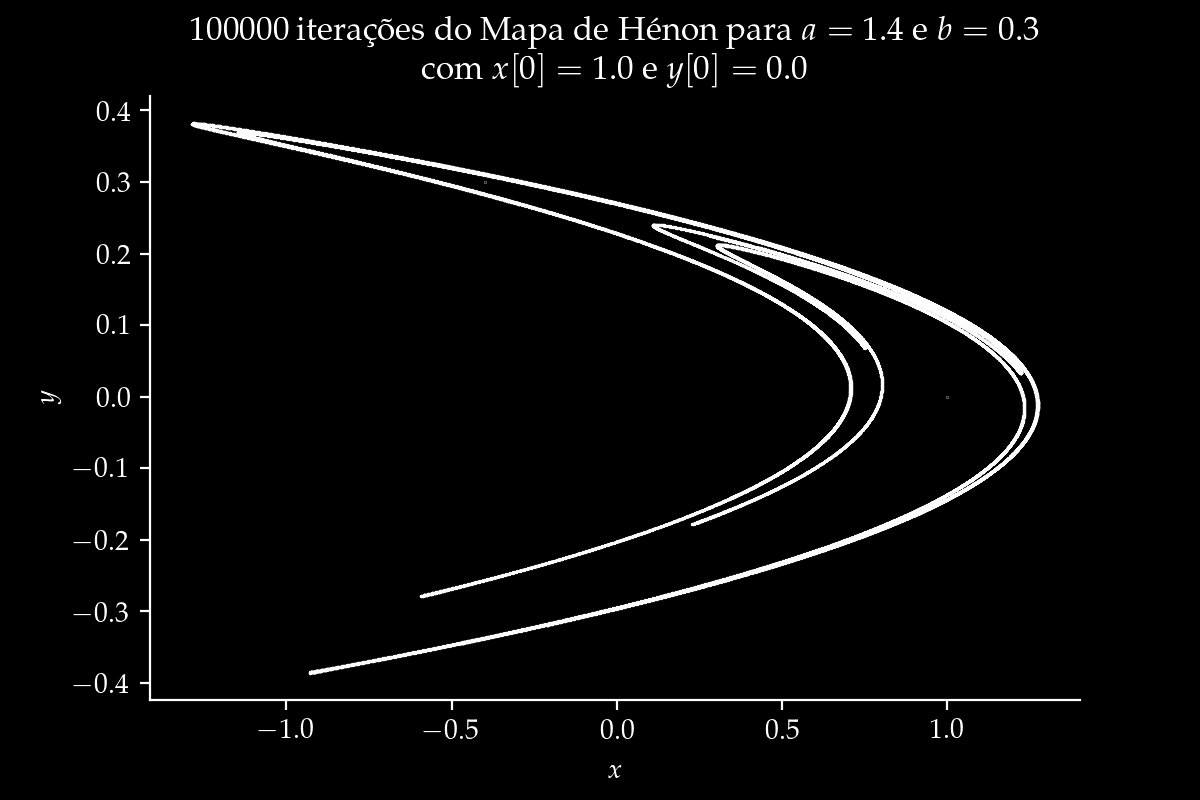
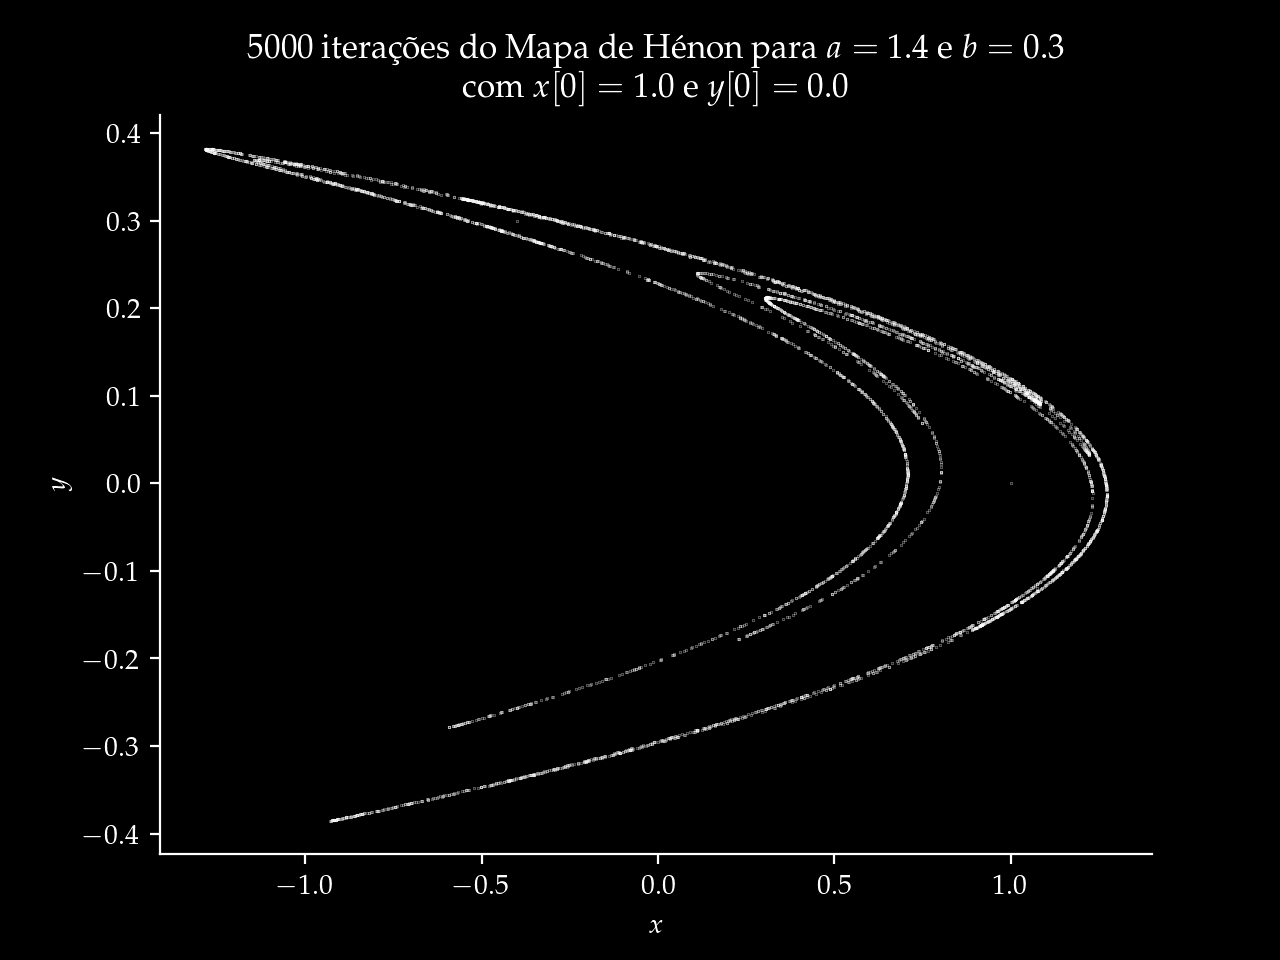
fiz um script para gerar os graficos das series caoticas

diff --git a/pibic2020/visualization/view_chaos.py b/pibic2020/visualization/view_chaos.py
@@ -1,0 +1,307 @@
+# bibliotecas gerais
+import numpy as np
+
+# bibliotecas dos graficos
+import matplotlib.pyplot as plt
+import seaborn as sns
+
+# agora, melhoramos a qualidade de saida e de visualizacao da imagem 
+# alem de mudar a fonte padrao para uma do latex
+sns.set_style("ticks")
+plt.rcParams['savefig.dpi'] = 200
+plt.rcParams["figure.dpi"] = 150
+plt.rcParams.update({
+    "text.usetex": True,
+    "font.family": "serif",
+    "font.serif": ["Palatino"],
+})
+plt.style.use("dark_background")
+
+
+# bibliotecas dos sistemas caoticos
+from pibic2020.data import henon
+from pibic2020.data import logistic
+from pibic2020.data import lorenz
+from pibic2020.data import mackeyglass
+
+print("Escolha o sistema para gerar os gráficos")
+sis = input("1: Mapa de Hénon, 2: Mapa Logístico, 3: Sistema de Lorenz, 4: Equações de Mackey-Glass")
+
+# --------------- HENON --------------- #
+if (int(sis) == 1):
+    a = 1.4
+    b = 0.3
+    x_inicial = 1.0
+    y_inicial = 0.0
+    n_inicial = 0
+    estado_inicial = np.array([x_inicial, y_inicial, n_inicial])
+
+    mapa_henon = henon.MapaHenon(estado_inicial=estado_inicial, a=a, b=b)
+    n_iteracoes = 5000
+    vetor_estados = mapa_henon.simular(n_iteracoes)
+    x = vetor_estados[:, 0]
+    y = vetor_estados[:, 1]
+    n = vetor_estados[:, 2]
+
+    fig, ax = plt.subplots()
+    ax.scatter(x, y, color='White', s = 0.05, marker=".")
+    ax.set_title(str(n_iteracoes) + " iterações do Mapa de Hénon para $a =$ " + str(a) + " e $b =$ " + str(b) + "\n com $x[0] =$ " + str(x[0]) + " e $y[0] =$ " + str(y[0]))
+    ax.set_ylabel('$y$')
+    ax.set_xlabel('$x$')
+    ax.grid(False)
+    sns.despine()
+    fig.savefig("images/caos/henon-map/mapa-de-henon.png")
+
+    fig, ax = plt.subplots(2)
+    ax[0].plot(n, x, color='Crimson', linewidth=0.9)
+    ax[0].set_title("100 primeiras iterações das séries temporais do Mapa de Hénon para\n $a =$ " + str(a) + " e $b =$ " + str(b) + " com $x[0] =$ " + str(x[0]) + " e $y[0] =$ " + str(y[0]))
+    ax[0].set_ylabel('$x[n]$')
+    ax[0].set_xlabel('$n$')
+    ax[0].set_xlim(0, 100)
+    ax[0].grid(True)
+    ax[1].plot(n, y, color='LimeGreen', linewidth=0.9)
+    ax[1].set_ylabel('$y[n]$')
+    ax[1].set_xlabel('$n$')
+    ax[1].set_xlim(0, 100)
+    ax[1].grid(True)
+    fig.tight_layout()
+    sns.despine()
+    fig.savefig("images/caos/henon-map/series-temporais.png")
+
+    fig, ax = plt.subplots()
+    ax.plot(n, x, color='LimeGreen', linewidth=0.9)
+    ax.set_title("100 primeiras iterações das séries temporais do Mapa de Hénon em $\hat{x}$ para\n $a =$ " + str(a) + " e $b =$ " + str(b) + " com $x[0] =$ " + str(x[0]) + " e $y[0] =$ " + str(y[0]))
+    ax.set_ylabel('$x[n]$')
+    ax.set_xlabel('$n$')
+    ax.set_xlim(0, 100)
+    ax.grid(True)
+    fig.tight_layout()
+    sns.despine()
+    fig.savefig("images/caos/henon-map/series-temporal-x.png")
+    print("Gráficos gerados!")
+
+# --------------- LOGISTICO --------------- #
+elif (int(sis) == 2):
+    estado_inicial = np.array([0.5, 0])
+    r = 3.86
+
+    mapa_logistico = logistic.MapaLogistico(estado_inicial=estado_inicial, r=r)
+    n_iteracoes = 5000
+    vetor_estados = mapa_logistico.simular(n_iteracoes)
+    x = vetor_estados[:, 0]
+    n = vetor_estados[:, 1]
+
+    fig, ax = plt.subplots()
+    ax.plot(n, x, color='Crimson', linewidth=0.9)
+    ax.set_title("100 iterações iniciais da série temporal do Mapa Logístico\n para $r =$ " + str(r) + " com $x[0] =$ " + str(x[0]))
+    ax.set_ylabel('$x[n]$')
+    ax.set_xlabel('$n$')
+    ax.set_xlim(0, 100)
+    ax.grid(True)
+    sns.despine()
+    fig.savefig("images/caos/logistic-map/series-temporais.png")
+
+    conjunto_r = np.linspace(0.0, 4.0, 1000)
+    n_iteracoes = 1000
+    n_valores_finais = int(0.1*n_iteracoes)
+    fig, ax = plt.subplots()
+    ax.set_title("Diagrama de bifurcação para o mapa logístico")
+    ax.set_ylabel('$x$')
+    ax.set_xlabel('$r$')
+    ax.set_xlim(0, 4)
+    ax.set_ylim(0, )
+    ax.grid(False)
+    sns.despine()
+    x_plot = []
+    r_plot = []
+    mapa_log = logistic.MapaLogistico(r=0.0, estado_inicial=estado_inicial)
+    for ri in range(0, len(conjunto_r)):
+        estados = estado_inicial
+        mapa_log.atualizar_estado(estados)
+        mapa_log.atualizar_r(float(conjunto_r[ri]))
+    
+        vetor_estados = mapa_log.simular(n_iteracoes)
+        x = vetor_estados[:, 0]
+
+        x_unicos = np.unique(x[-n_valores_finais:])
+        r_unicos = conjunto_r[ri]*np.ones(len(x_unicos))
+
+        ax.scatter(r_unicos, x_unicos, color='White', marker='.', s=0.5)
+    fig.savefig("images/caos/logistic-map/mapa-logistico.png")
+    print("Gráficos gerados!")
+
+# --------------- LORENZ --------------- #
+elif (int(sis) == 3):
+    t_inicial = 0
+    t_final = 50
+    dt = 0.001
+    estado_inicial = np.array([0.1, 0, 0])
+
+    sis_lorenz = lorenz.SistemaLorenz(estado_inicial=estado_inicial, dt=dt)
+    vetor_posicao, instantes_temporais = sis_lorenz.calcular(t_inicial=t_inicial, t_final=t_final)
+    x = vetor_posicao[:, 0]
+    y = vetor_posicao[:, 1]
+    z = vetor_posicao[:, 2]
+
+    fig, ax = plt.subplots()
+    ax = plt.axes(projection='3d')
+    ax.plot(x, y, z, alpha=1, linewidth=0.6, color='White')
+    ax.set_title("Diagrama de fases do Atrator de Lorenz\n utilizando $\sigma = 10$, " + r"$\beta =\frac{8}{3}$, " + r"$\rho=28$, com " + "$x(0) =$ " + str(estado_inicial[0]) + ", $y(0) = $ " + str(estado_inicial[1]) + " e $z(0) =$ " + str(estado_inicial[2]))
+    ax.set_xlabel('$x$')
+    ax.set_ylabel('$y$')
+    ax.set_zlabel('$z$')
+    ax.w_xaxis.set_pane_color((0, 0, 0, 0))
+    ax.w_yaxis.set_pane_color((0, 0, 0, 0))
+    ax.w_zaxis.set_pane_color((0, 0, 0, 0))
+    ax.grid(False)
+    sns.despine()
+    fig.savefig("images/caos/lorenz/diagrama-de-fases.png")
+
+    fig, ax = plt.subplots(3)
+    fig.suptitle("Séries temporais de 0 a 100 segundos das coordenadas $xyz$ do Sistema de Lorenz\n utilizando $\sigma = 10$, " + r"$\beta =\frac{8}{3}$, " + r"$\rho=28$, com " + "$x(0) =$ " + str(estado_inicial[0]) + ", $y(0) = $ " + str(estado_inicial[1]) + " e $z(0) =$ " + str(estado_inicial[2]))
+    ax[0].plot(instantes_temporais, x, color='Crimson', linewidth=0.9)
+    ax[0].set_ylabel('$x(t)$')
+    ax[0].set_xlabel('$t$')
+    ax[0].set_xlim(0,)  
+    ax[0].grid(True)
+    ax[1].plot(instantes_temporais, y, color='LimeGreen', linewidth=0.9)
+    ax[1].set_ylabel('$y(t)$')
+    ax[1].set_xlabel('$t$')
+    ax[1].set_xlim(0,)
+    ax[1].grid(True)
+    ax[2].plot(instantes_temporais, z, color='DodgerBlue', linewidth=0.9)
+    ax[2].set_ylabel('$z(t)$')
+    ax[2].set_xlabel('$t$')
+    ax[2].set_xlim(0,)
+    ax[2].grid(True)
+    sns.despine()
+    plt.tight_layout()
+    fig.savefig("images/caos/lorenz/series-temporais.png")
+
+    fig, ax = plt.subplots()
+    fig.suptitle("Séries temporal em $\hat{x}$ de 0 a 100 segundos do Sistema de Lorenz\n utilizando $\sigma = 10$, " + r"$\beta =\frac{8}{3}$, " + r"$\rho=28$, com " + "$x(0) =$ " + str(estado_inicial[0]) + ", $y(0) = $ " + str(estado_inicial[1]) + " e $z(0) =$ " + str(estado_inicial[2]))
+    ax.plot(instantes_temporais, x, color='DodgerBlue', linewidth=0.9)
+    ax.set_ylabel('$x(t)$')
+    ax.set_xlabel('$t$')
+    ax.set_xlim(0,)  
+    ax.grid(True)
+    sns.despine()
+    fig.savefig("images/caos/lorenz/series-temporal-x.png")    
+    print("Gráficos gerados!")
+
+# --------------- MACKEYGLASS --------------- #
+elif (int(sis) == 4):
+    t_inicial = 0
+    t_final = 800
+    tau = 6
+    n = 10
+    gamma = 0.1
+    beta = 0.2
+    theta = 1
+    dt = 1.0
+    mackeyglass_eq = mackeyglass.MackeyGlass(tau=tau, gamma=gamma, beta=beta, n=n, theta=theta, dt=dt)
+    dados, instantes_temporais = mackeyglass_eq.calcular(t_inicial=t_inicial, t_final=t_final)
+    fig, ax = plt.subplots()
+    ax.set_title('Série temporal de 0 a 600 dias da equação de Mackey-Glass para\n' + r'$\tau =$ ' + str(tau) + r', $\beta =$ ' + str(beta) + r', $\gamma =$ ' + str(gamma) + r', $n =$ ' + str(n) + r' e $\theta =$ ' + str(theta) + ' utilizando P(0) = ' + str(0.1*theta))
+    ax.plot(instantes_temporais, dados, color='Gold', linewidth=0.9)
+    ax.set_ylabel('$P(t)$')
+    ax.set_xlabel('$t$')
+    ax.set_xlim(0,)
+    ax.grid(True)
+    sns.despine()
+    plt.show()
+    fig.savefig("images/caos/mackeyglass/serie-temporal-1.png")
+    p_atual_2D = np.array([])
+    p_tau_2D = np.array([])   
+    for i in range(tau, len(dados)):
+        p_atual_2D = np.append(p_atual_2D, dados[i])
+        p_tau_2D = np.append(p_tau_2D, dados[i - tau])
+    fig, ax = plt.subplots()
+    ax.set_title('Atrator de Mackey-Glass em 2D para ' + r'$\tau =$ ' + str(tau) + r', $\beta =$ ' + str(beta) + r', $\gamma =$ ' + str(gamma) + r', $n =$ ' + str(n) + r' e $\theta =$ ' + str(theta) + ',\n utilizando $P(0) =$ ' + str(0.1*theta))
+    ax.plot(p_atual_2D, p_tau_2D, color='White')
+    ax.set_ylabel(r'$P(t - \tau)$')
+    ax.set_xlabel('$P(t)$')
+    ax.grid(False)
+    fig.tight_layout()
+    sns.despine()
+    fig.savefig("images/caos/mackeyglass/atrator-1-2d.png")
+    p_atual_3D = np.array([])
+    p_tau_3D = np.array([])   
+    p_2tau_3D = np.array([])
+    for i in range(2*tau, len(dados)):
+        p_atual_3D = np.append(p_atual_3D, dados[i])
+        p_tau_3D = np.append(p_tau_3D, dados[i - tau])
+        p_2tau_3D = np.append(p_2tau_3D, dados[i - 2*tau])
+    fig, ax = plt.subplots()
+    ax = plt.axes(projection='3d')
+    ax.set_title('Atrator de Mackey-Glass em 3D para ' + r'$\tau =$ ' + str(tau) + r', $\beta =$ ' + str(beta) + r', $\gamma =$ ' + str(gamma) + r', $n =$ ' + str(n) + r' e $\theta =$ ' + str(theta) + ',\n utilizando $P(0) =$ ' + str(0.1*theta))
+    ax.plot(p_atual_3D, p_tau_3D, p_2tau_3D, color='White')
+    ax.set_xlabel('$P(t)$')
+    ax.set_ylabel(r'$P(t - \tau)$')
+    ax.set_zlabel(r'$P(t - 2\tau)$')
+    ax.w_xaxis.set_pane_color((0, 0, 0, 0))
+    ax.w_yaxis.set_pane_color((0, 0, 0, 0))
+    ax.w_zaxis.set_pane_color((0, 0, 0, 0))
+    ax.grid(False)
+    fig.tight_layout()
+    sns.despine()
+    fig.savefig("images/caos/mackeyglass/atrator-1-3d.png")
+
+    t_inicial = 0
+    t_final = 800
+    tau = 22
+    n = 10
+    gamma = 0.1
+    beta = 0.2
+    theta = 1
+    dt = 1.0
+    mackeyglass_eq = mackeyglass.MackeyGlass(tau=tau, gamma=gamma, beta=beta, n=n, theta=theta, dt=dt)
+    dados, instantes_temporais = mackeyglass_eq.calcular(t_inicial=t_inicial, t_final=t_final)
+    fig, ax = plt.subplots()
+    ax.set_title('Série temporal de 0 a 600 dias da equação de Mackey-Glass em caos para\n' + r'$\tau =$ ' + str(tau) + r', $\beta =$ ' + str(beta) + r', $\gamma =$ ' + str(gamma) + r', $n =$ ' + str(n) + r' e $\theta =$ ' + str(theta) + ' utilizando P(0) = ' + str(0.1*theta))
+    ax.plot(instantes_temporais, dados, color='Gold', linewidth=0.9)
+    ax.set_ylabel('$P(t)$')
+    ax.set_xlabel('$t$')
+    ax.set_xlim(0,)
+    ax.grid(True)
+    sns.despine()
+    fig.savefig("images/caos/mackeyglass/serie-temporal-2.png")
+    p_atual_2D = np.array([])
+    p_tau_2D = np.array([])   
+    for i in range(tau, len(dados)):
+        p_atual_2D = np.append(p_atual_2D, dados[i])
+        p_tau_2D = np.append(p_tau_2D, dados[i - tau])
+    fig, ax = plt.subplots()
+    ax.set_title('Atrator de Mackey-Glass em caos em 2D para ' + r'$\tau =$ ' + str(tau) + r', $\beta =$ ' + str(beta) + r', $\gamma =$ ' + str(gamma) + r', $n =$ ' + str(n) + r' e $\theta =$ ' + str(theta) + ',\n utilizando $P(0) =$ ' + str(0.1*theta))
+    ax.plot(p_atual_2D, p_tau_2D, color='White')
+    ax.set_ylabel(r'$P(t - \tau)$')
+    ax.set_xlabel('$P(t)$')
+    ax.grid(False)
+    fig.tight_layout()
+    sns.despine()
+    fig.savefig("images/caos/mackeyglass/atrator-2-2d.png")
+    p_atual_3D = np.array([])
+    p_tau_3D = np.array([])   
+    p_2tau_3D = np.array([])
+    for i in range(2*tau, len(dados)):
+        p_atual_3D = np.append(p_atual_3D, dados[i])
+        p_tau_3D = np.append(p_tau_3D, dados[i - tau])
+        p_2tau_3D = np.append(p_2tau_3D, dados[i - 2*tau])
+    fig, ax = plt.subplots()
+    ax = plt.axes(projection='3d')
+    ax.set_title('Atrator de Mackey-Glass em caos 3D para ' + r'$\tau =$ ' + str(tau) + r', $\beta =$ ' + str(beta) + r', $\gamma =$ ' + str(gamma) + r', $n =$ ' + str(n) + r' e $\theta =$ ' + str(theta) + ',\n utilizando $P(0) =$ ' + str(0.1*theta))
+    ax.plot(p_atual_3D, p_tau_3D, p_2tau_3D, color='White')
+    ax.set_xlabel('$P(t)$')
+    ax.set_ylabel(r'$P(t - \tau)$')
+    ax.set_zlabel(r'$P(t - 2\tau)$')
+    ax.w_xaxis.set_pane_color((0, 0, 0, 0))
+    ax.w_yaxis.set_pane_color((0, 0, 0, 0))
+    ax.w_zaxis.set_pane_color((0, 0, 0, 0))
+    ax.grid(False)
+    fig.tight_layout()
+    sns.despine()
+    fig.savefig("images/caos/mackeyglass/atrator-2-3d.png")
+    print("Gráficos gerados!")
+
+else:
+    print("Comando inválido!")    

diff --git a/pibic2020/data/mackeyglass.py b/pibic2020/data/mackeyglass.py
@@ -134,7 +134,7 @@ class MackeyGlass:
             condicoes_iniciais.append(condicao)
         
         equacao = self._equacao()
-        DDE = jitcdde(equacao)
+        DDE = jitcdde(equacao, verbose=False)
         
         DDE.add_past_points(condicoes_iniciais)
         DDE.step_on_discontinuities()

diff --git a/pibic2020/__init__.py b/pibic2020/__init__.py
@@ -3,3 +3,4 @@ from . import evaluation
 from . import models
 from . import parameters
 from . import tools
+from . import visualization
